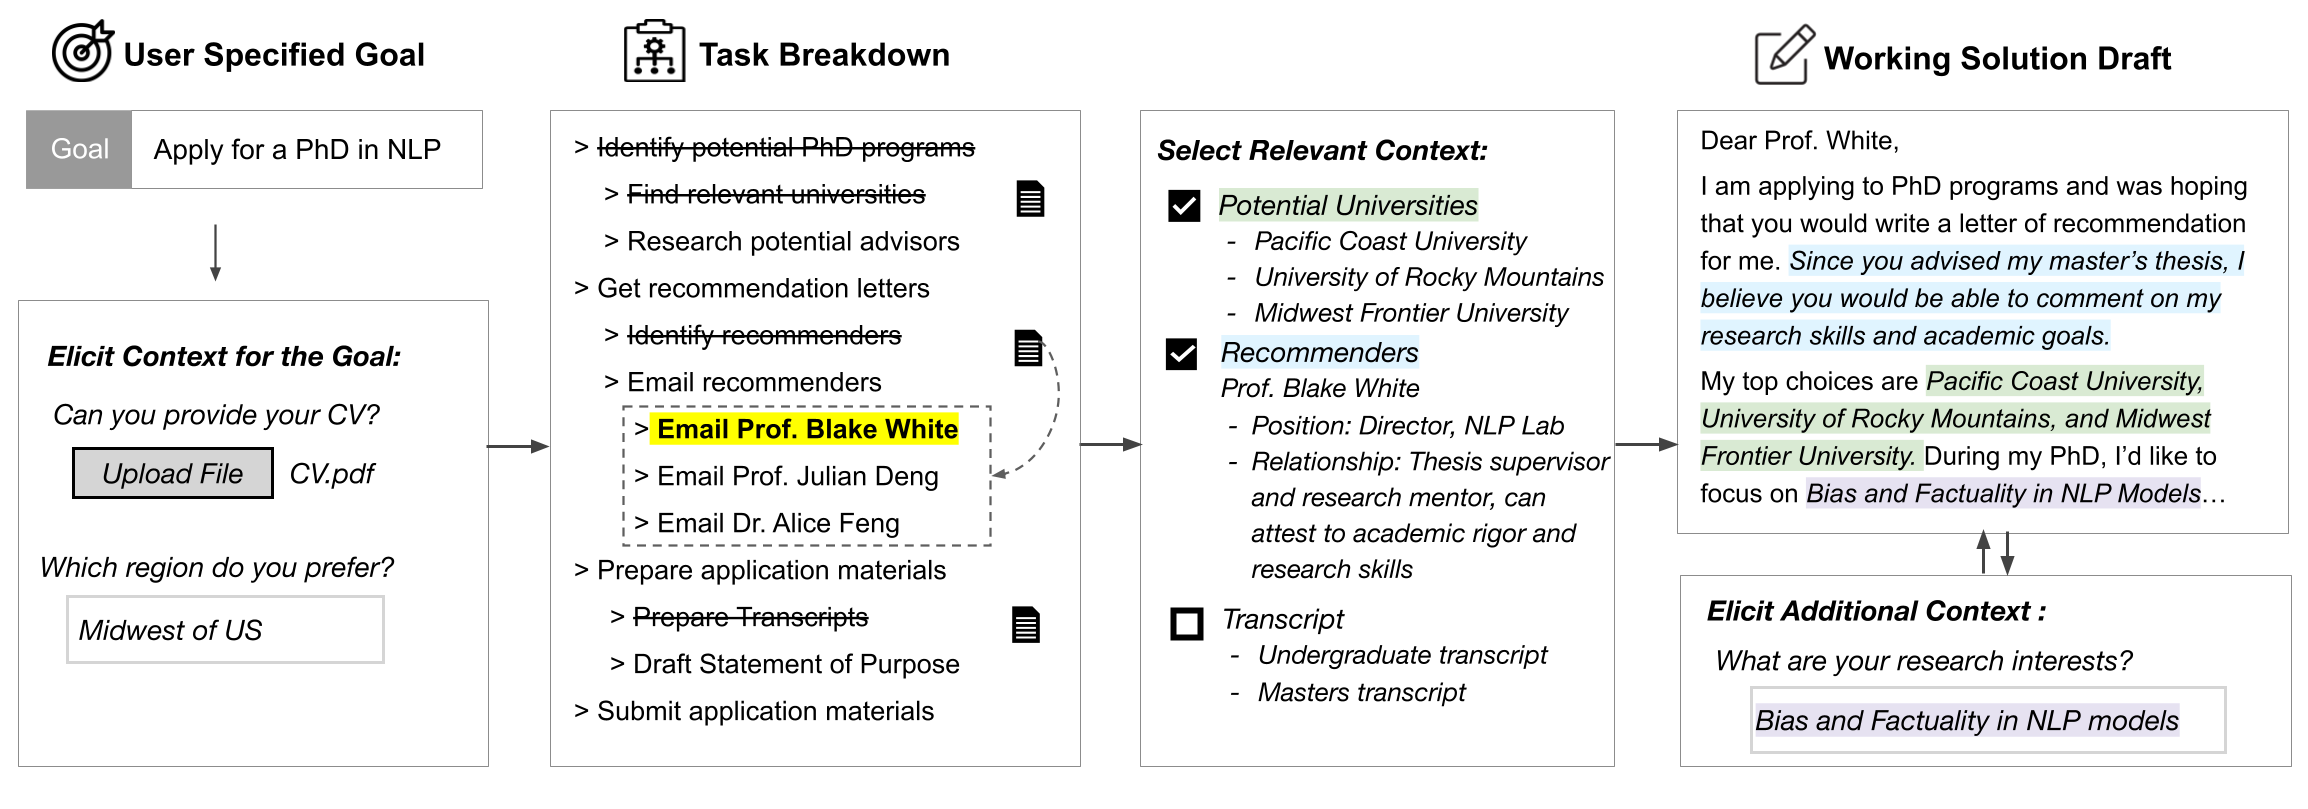
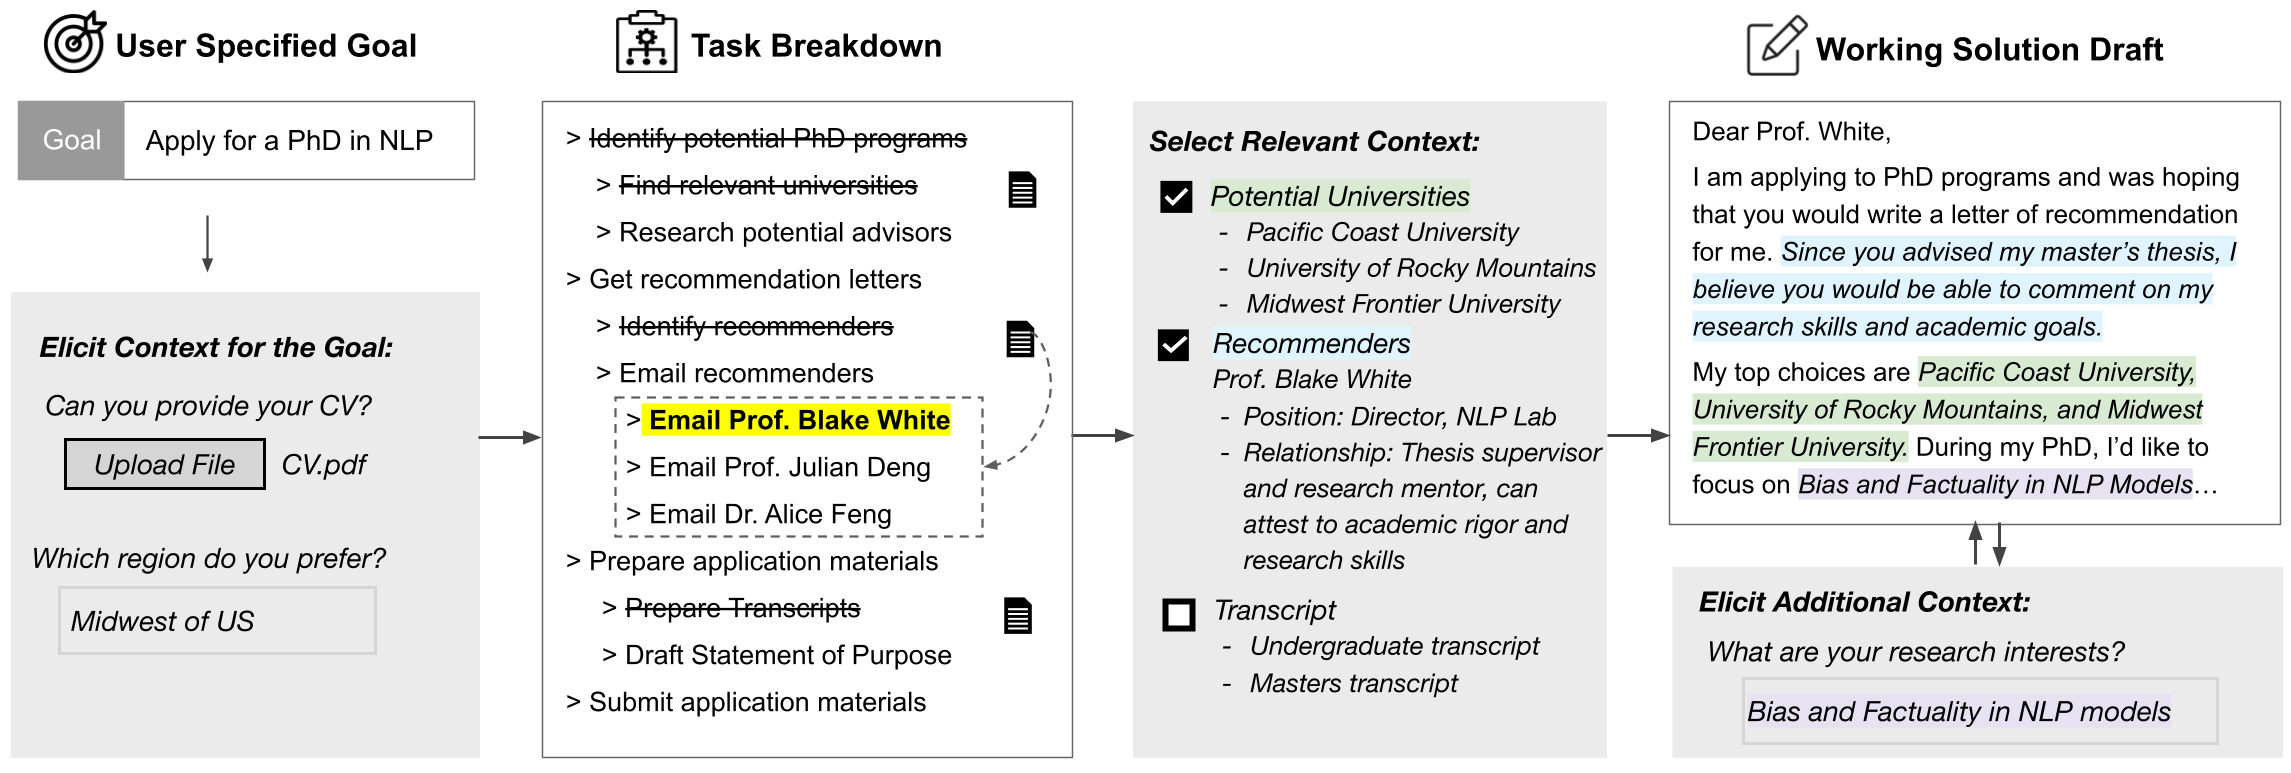
change jumpstarter teaser

diff --git a/index.html b/index.html
@@ -56,7 +56,7 @@
             <tbody>
               <tr>
                 <td style="padding:20px;width:30%;vertical-align:middle">
-                  <img src="images/jumpstarter.png" width="180" height="72">
+                  <img src="images/jumpstarter.png" width="180" height="70">
                 </td>
                 
                 <td width="70%" valign="middle" style="line-height:150%">
